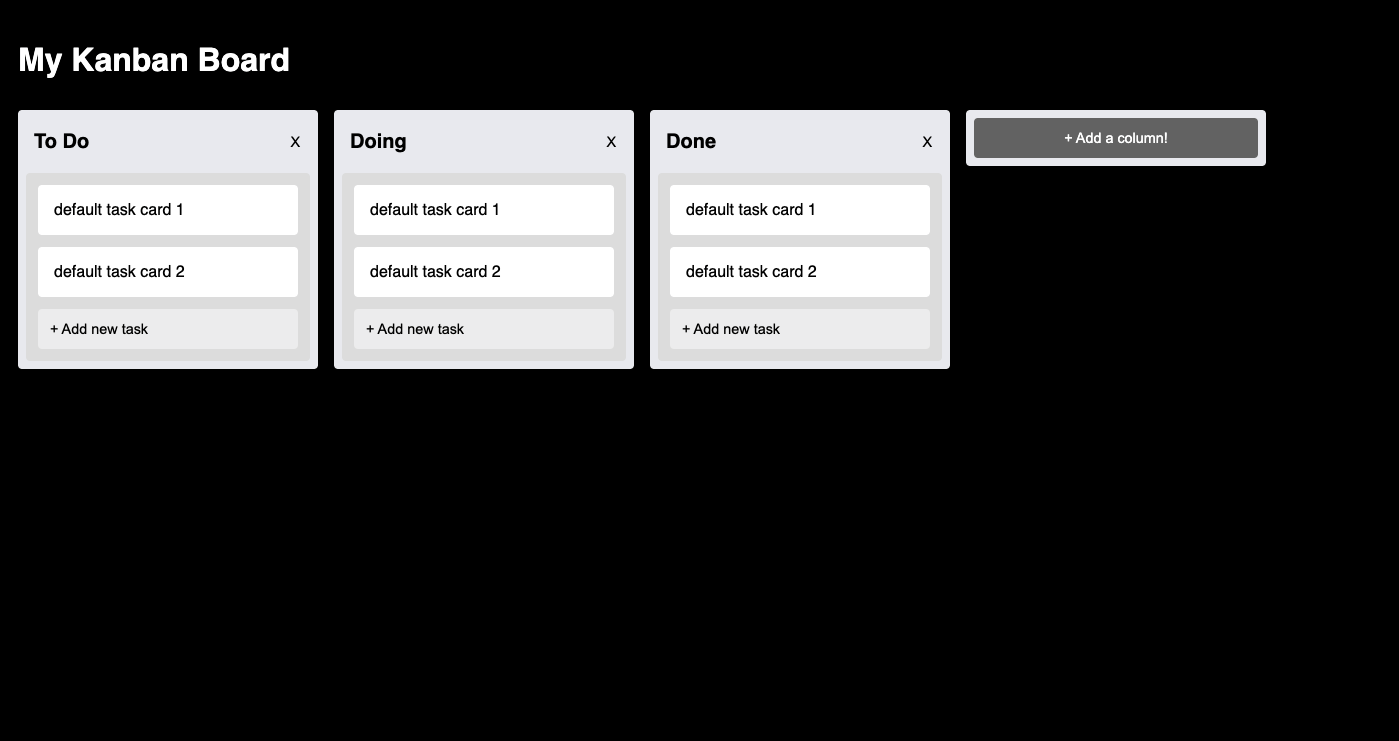
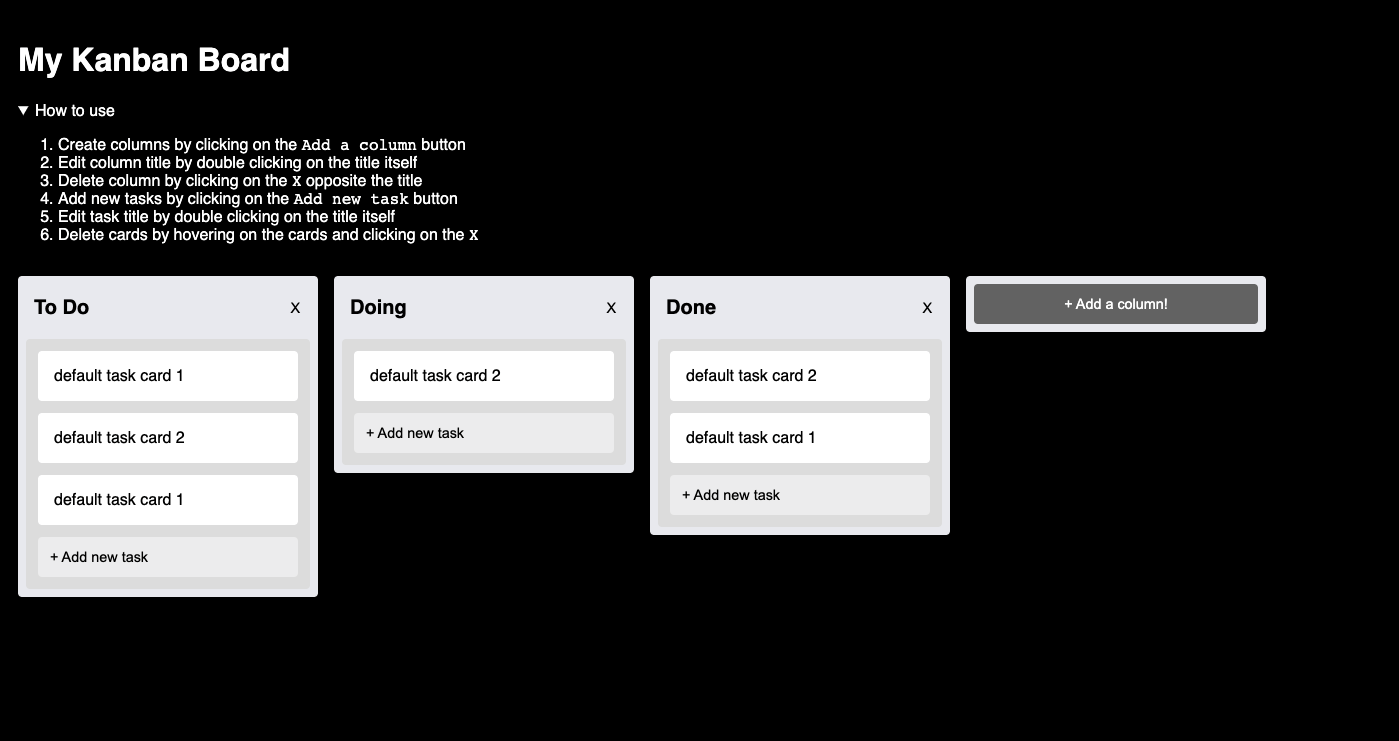
Added how to use section and clenups

diff --git a/src/components/Board.js b/src/components/Board.js
@@ -9,6 +9,26 @@ const FullBoard = () => {
     <div className="board">
       <h1>My Kanban Board</h1>
 
+      <details>
+        <summary>How to use</summary>
+        <ol>
+          <li>
+            Create columns by clicking on the <kbd>Add a column</kbd> button
+          </li>
+          <li>Edit column title by double clicking on the title itself</li>
+          <li>
+            Delete column by clicking on the <kbd>X</kbd> opposite the title
+          </li>
+          <li>
+            Add new tasks by clicking on the <kbd>Add new task</kbd> button
+          </li>
+          <li>Edit task title by double clicking on the title itself</li>
+          <li>
+            Delete cards by hovering on the cards and clicking on the <kbd>X</kbd>
+          </li>
+        </ol>
+      </details>
+
       <div>
         <ul className="lists">
           {lists.map((list, index) => (

diff --git a/src/components/Card.js b/src/components/Card.js
@@ -28,14 +28,8 @@ export const Card = props => {
   return (
     <div className="card-item">
       <div className={`${isEditingTask ? "editing" : ""}`}>
-        <div className="task-card-wrapper">
-          <div
-            id={[timeId]}
-            draggable="true"
-            className="task-card"
-            onDragStart={onDragStart}
-            onDoubleClick={handleEditingClick}
-          >
+        <div className="task-card-wrapper" id={[timeId]} draggable="true" onDragStart={onDragStart}>
+          <div className="task-card" onDoubleClick={handleEditingClick}>
             {taskText}
           </div>
 

diff --git a/src/components/Card.css b/src/components/Card.css
@@ -17,7 +17,6 @@
 }
 
 .task-card-wrapper button {
-  visibility: hidden;
   padding: 5px 10px;
   border: 0;
   background-color: transparent;
@@ -25,6 +24,12 @@
   border-radius: 2px;
   transition: background-color 0.2s ease-in-out;
   margin-left: 0.75rem;
+}
+
+@media (min-width: 1024px) {
+  .task-card-wrapper button {
+    visibility: hidden;
+  }
 }
 
 .task-card-wrapper:hover button {

diff --git a/src/components/Board.css b/src/components/Board.css
@@ -1,11 +1,21 @@
-h1 {
-  color: white;
-  margin-bottom: 2rem;
-}
-
 .board {
   padding: 1.5rem;
   margin: 0;
+}
+
+h1 {
+  color: white;
+  margin-bottom: 1.5rem;
+}
+
+details {
+  color: white;
+  margin-bottom: 2rem;
+  cursor: text;
+}
+
+summary {
+  cursor: pointer;
 }
 
 .lists {

diff --git a/README.md b/README.md
@@ -6,7 +6,7 @@ This is a simple React app with Kanban functionality.
 
 ## Deployed app
 
-Link here: [Kanban Board](https://kanban-test.vercel.app/)
+Link here: [Kanban Board](https://kanban-test-rouge.vercel.app/)
 
 ## Build setup
 
